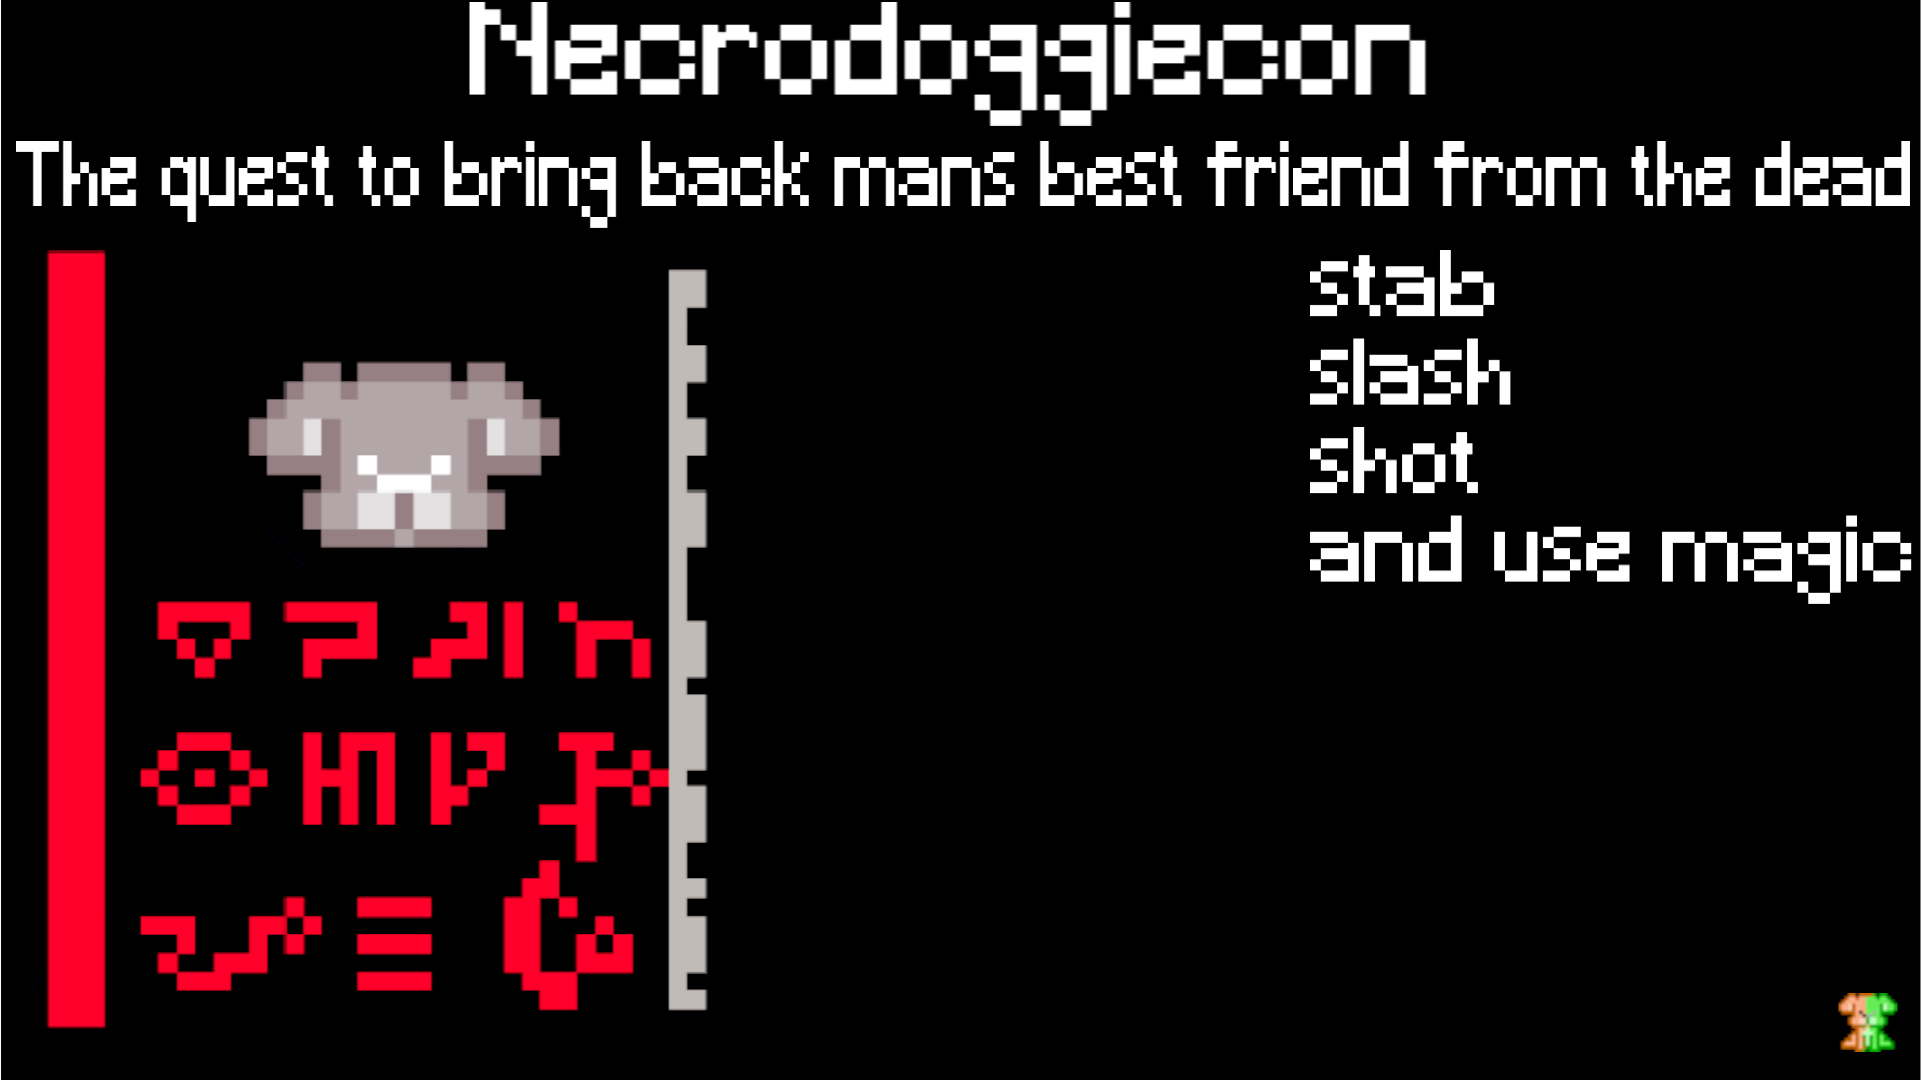
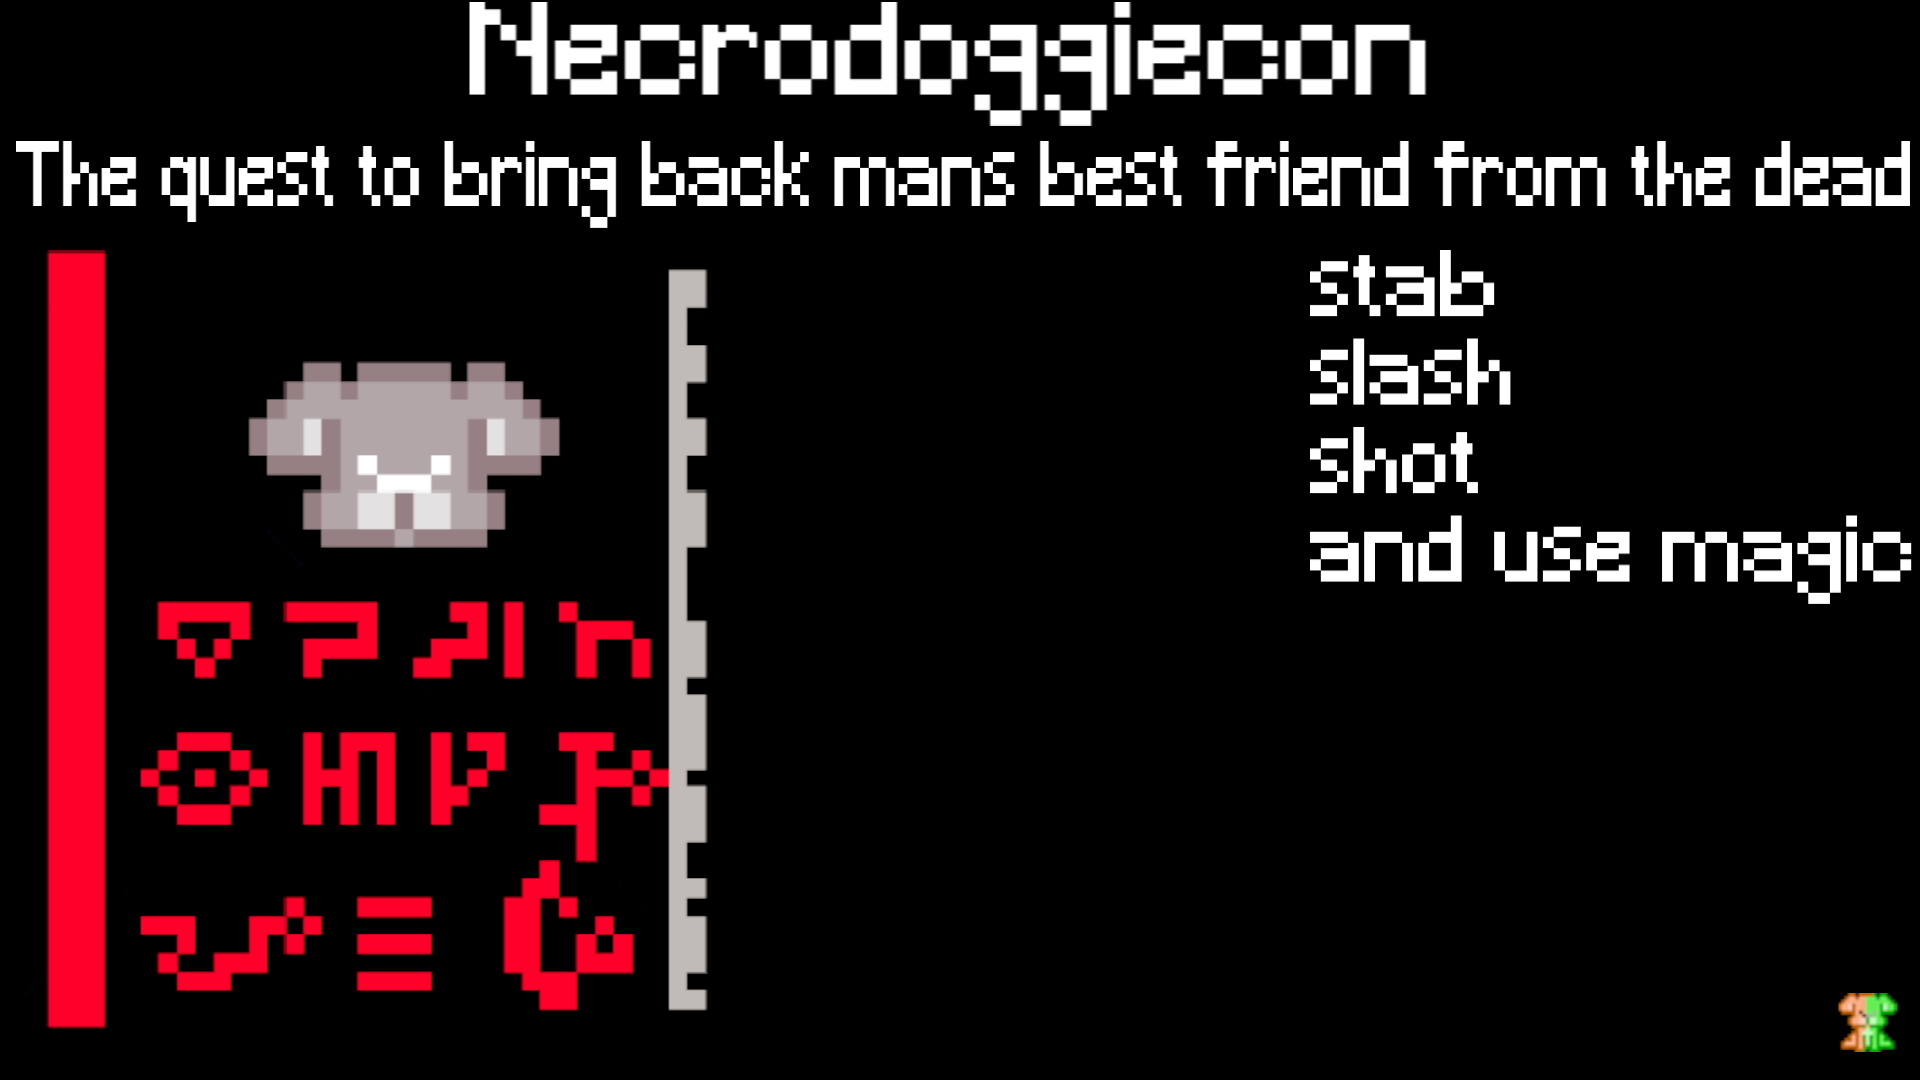
added menu image

diff --git a/Necrodoggiecon/MainMenu.cpp b/Necrodoggiecon/MainMenu.cpp
@@ -35,12 +35,19 @@ void MainMenu::InitialiseCanvas()
 	Background->GetSprite()->SetSpriteSize(XMUINT2(5000, 5000));
 	Background->GetSprite()->SetUseTranslucency(true);
 	Background->GetSprite()->SetTint(XMFLOAT4(-255, -255, -255, 0));
+	
+	CWidget_Image* ImageBackground = CreateImage(Vector2(0, 0), Vector2(.5, .5), -143);
+	ImageBackground->GetSprite()->LoadTextureWIC("Resources/Game/background.png");
+	ImageBackground->GetSprite()->SetRenderRect(XMUINT2(1920, 1080));
+	ImageBackground->GetSprite()->SetSpriteSize(XMUINT2(1200, 700));
+	ImageBackground->GetSprite()->SetUseTranslucency(true);
+	ImageBackground->GetSprite()->SetTint(XMFLOAT4(0, 0, 0, 0));
 
-	std::string TitleText = "Necrodogicon";
+	/*std::string TitleText = "Necrodogicon";
 	CWidget_Text* Title = CreateText(Vector2(0, 188), Vector2(.5, .5),-155, TitleText);
 	Title->GetText()->SetFont("Resources/Engine/font.png");
 	Title->GetText()->SetText(TitleText);
-	Title->GetText()->SetScale(2,2,1);
+	Title->GetText()->SetScale(2,2,1);*/
 
 	std::string FullQuitButtonName = "Quit";
 	CWidget_Button* ExitFull = CreateButton(Vector2(0, -188), Vector2(.5, .5), FullQuitButtonName, -145);

diff --git a/Necrodoggiecon/DeathMenu.cpp b/Necrodoggiecon/DeathMenu.cpp
@@ -1,3 +1,10 @@
+/*****************************************************************//**
+ * \file   DeathMenu.cpp
+ * \brief  The cpp for the death menu
+ *
+ * \author Jack B
+ * \date   May 2022
+ *********************************************************************/
 #include "DeathMenu.h"
 #include "LevelCompleteMenu.h"
 #include "Cerberus/Core/UI/CWidget_Button.h"
